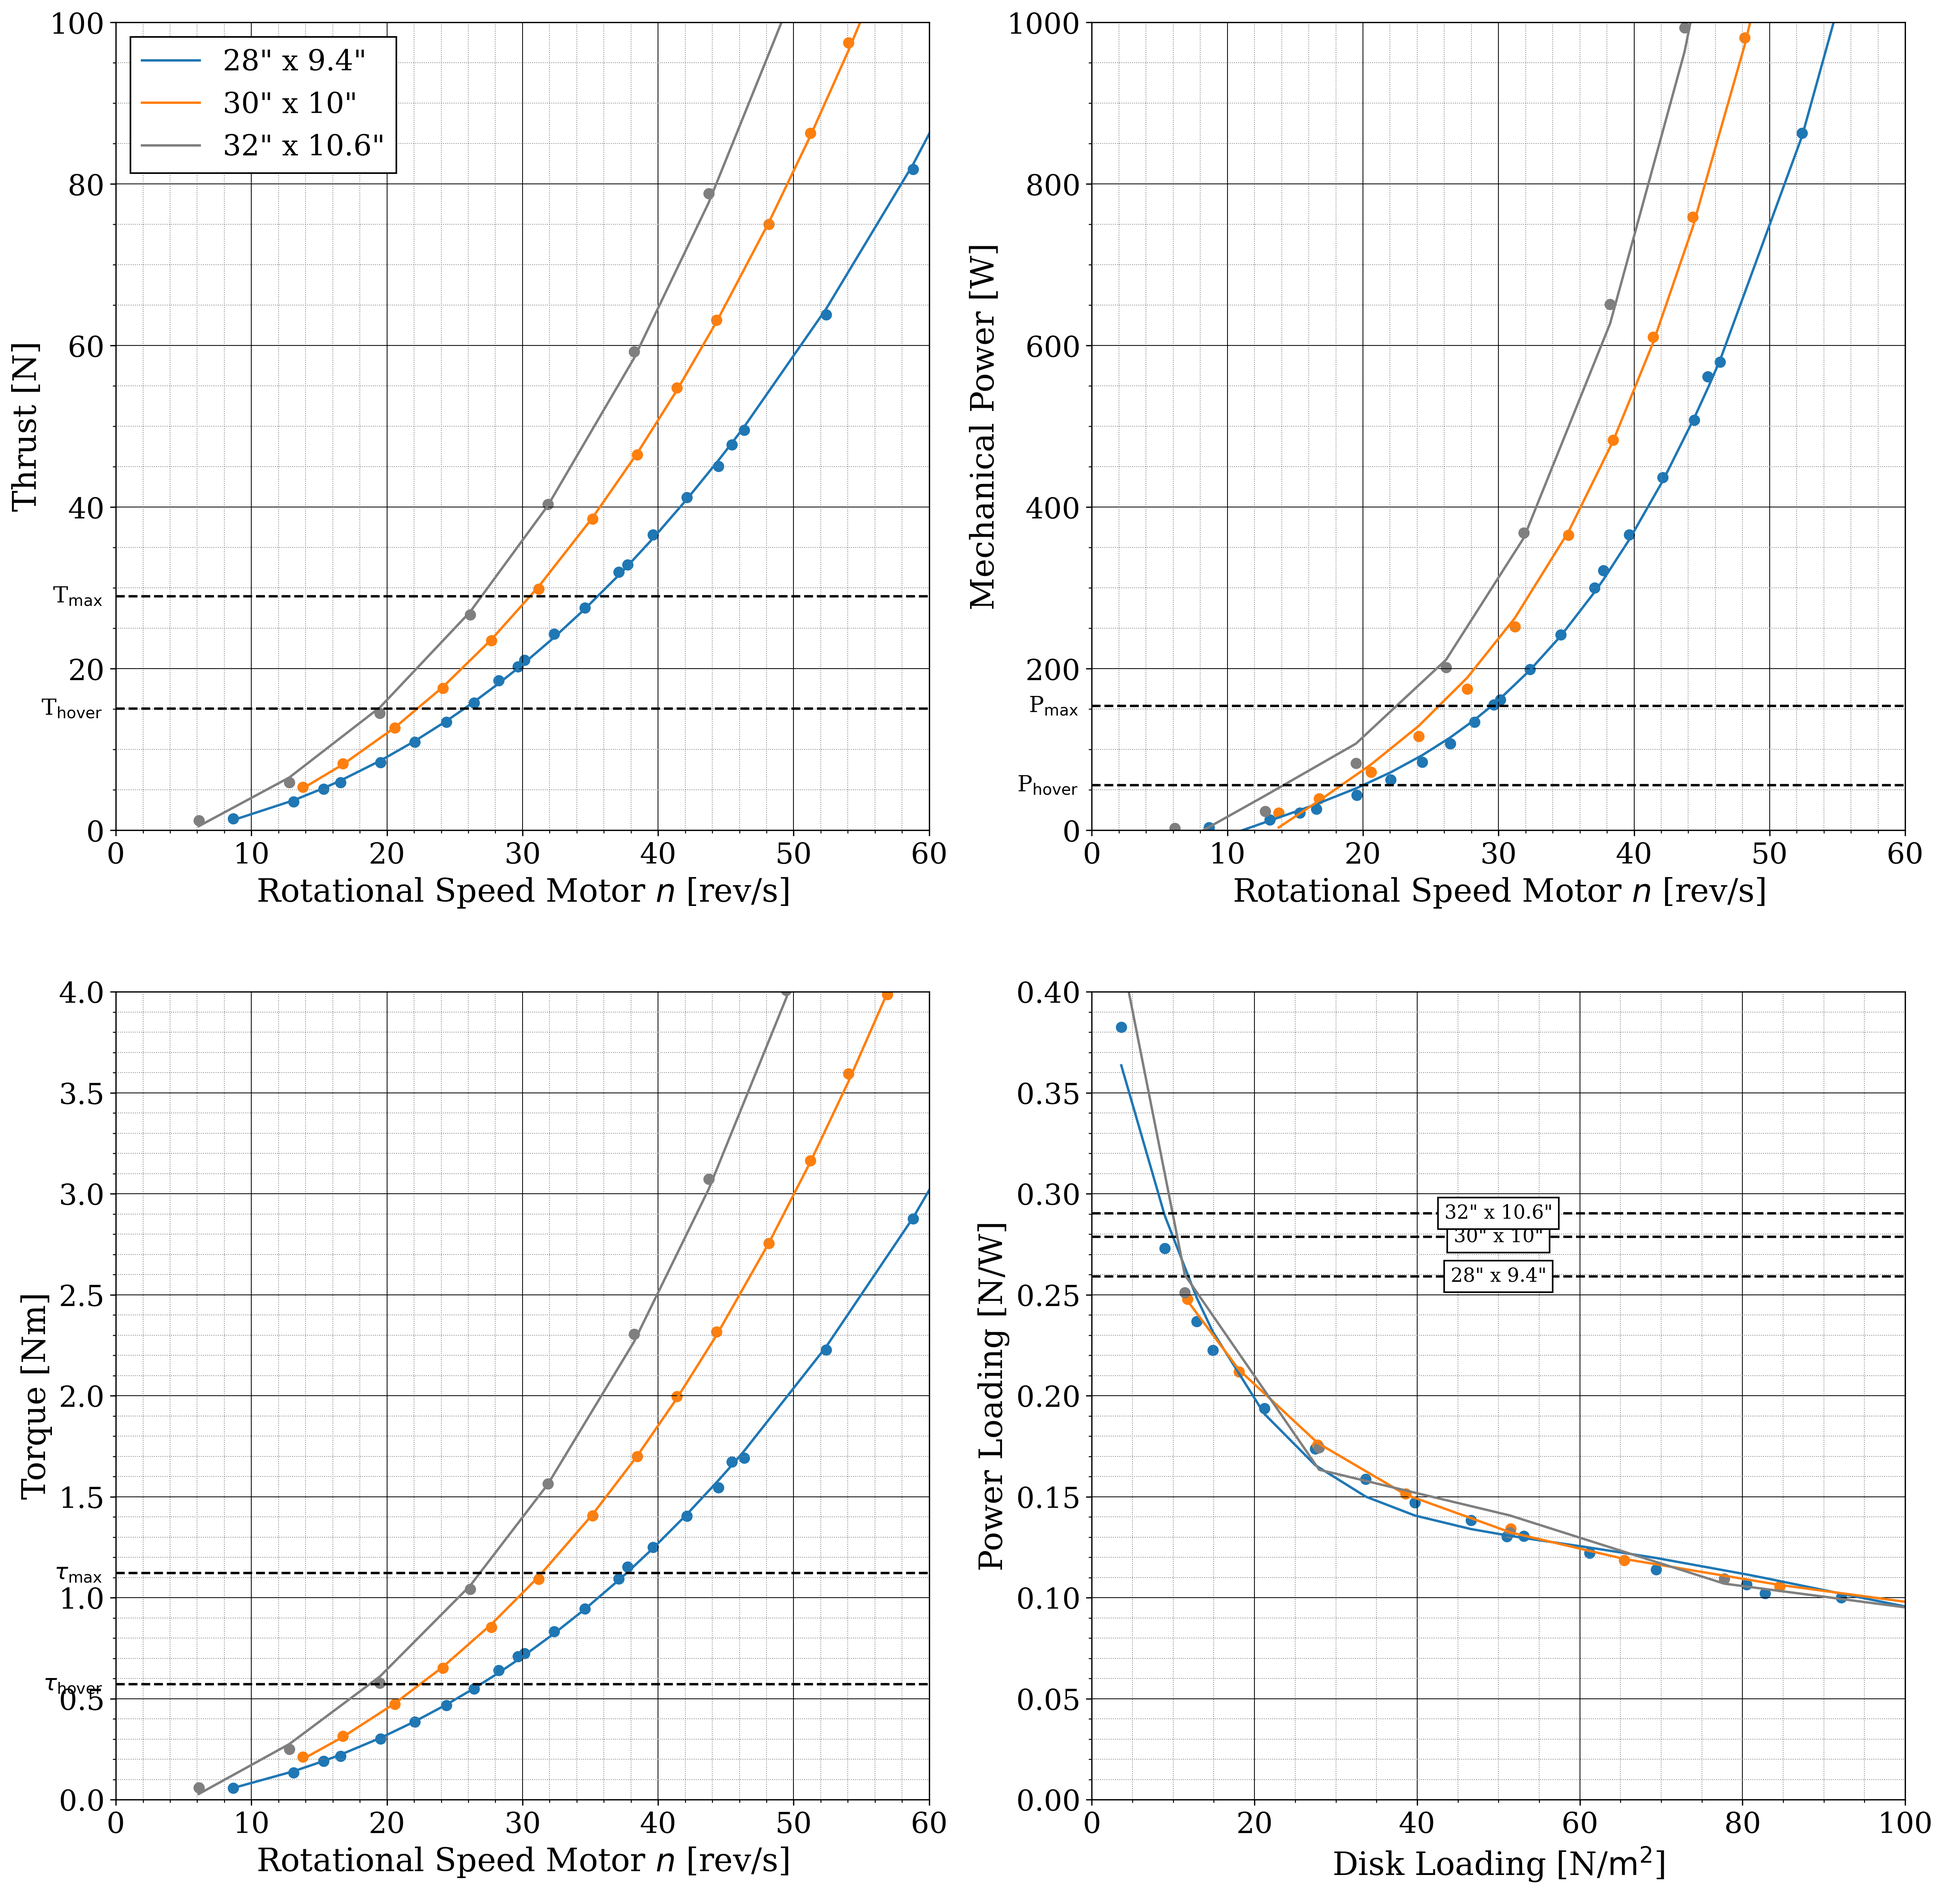
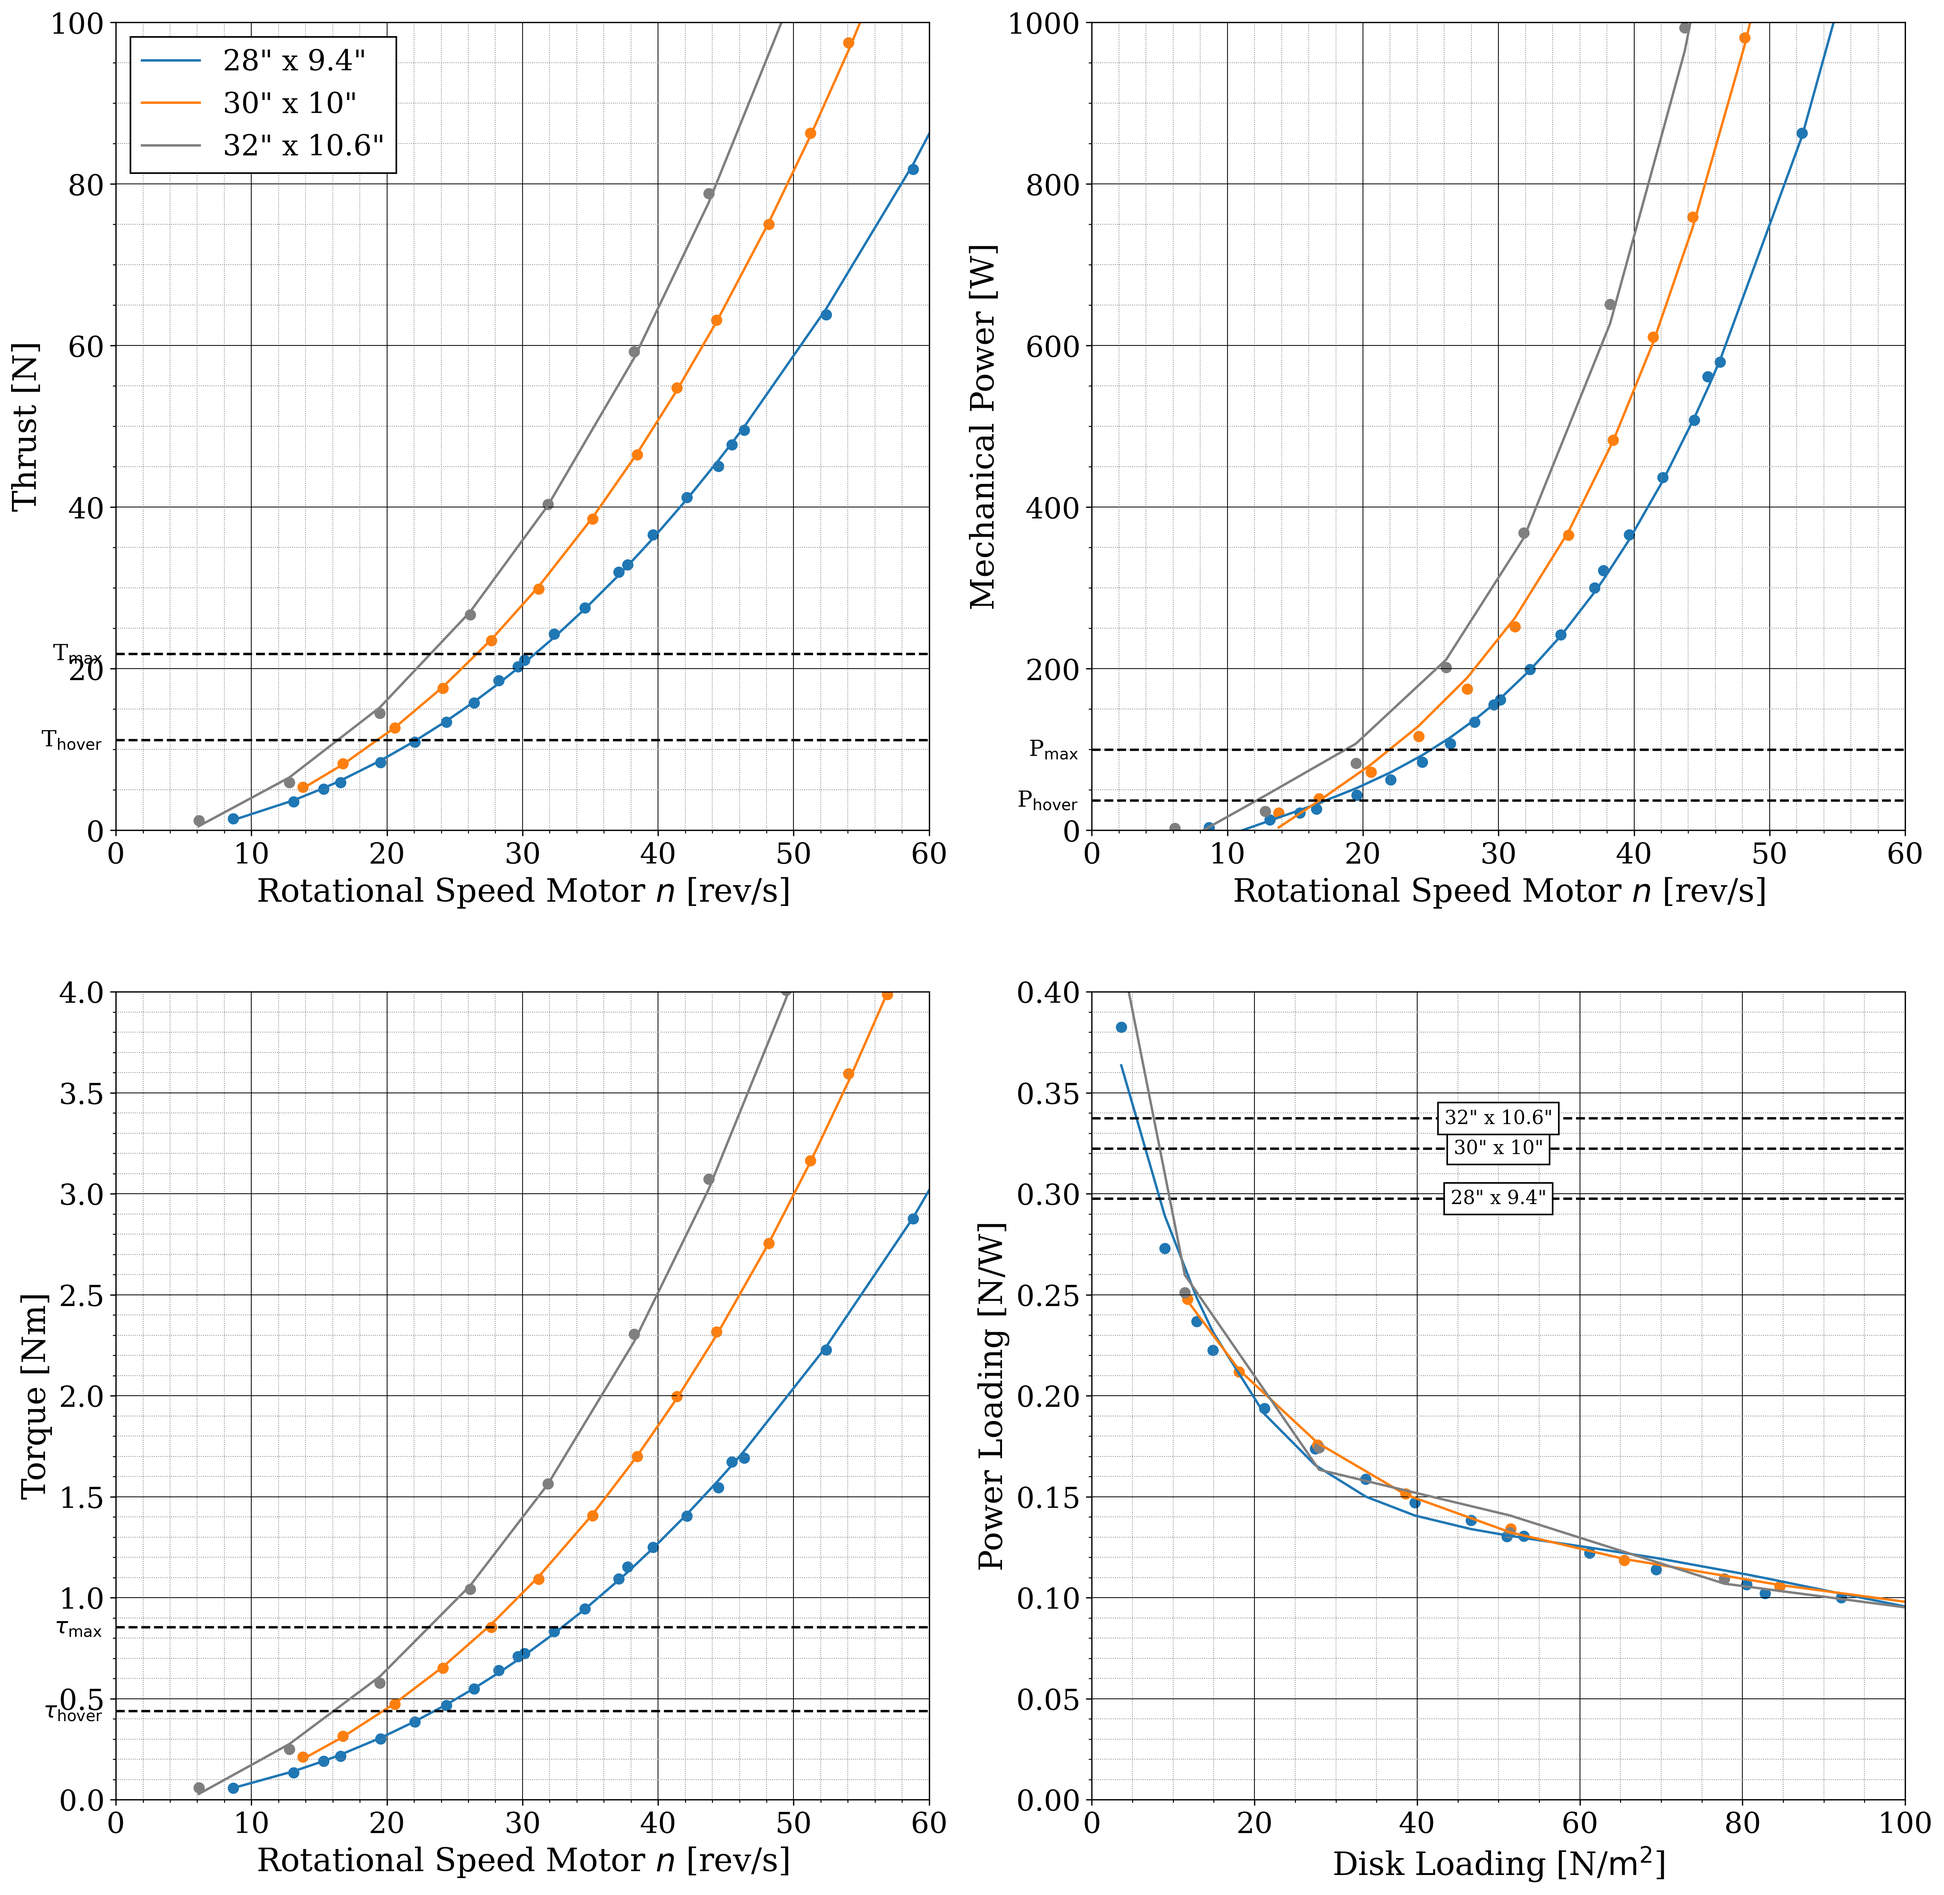
propeller selection

Changed region(s): [[0.7148, 0.5901, 0.808, 0.6833], [0.5283, 0.3727, 0.5594, 0.4348]]

diff --git a/Performance/performance.py b/Performance/performance.py
@@ -44,7 +44,7 @@ matplotlib.rcParams['axes.facecolor']   = 'white'
 matplotlib.rcParams["legend.fancybox"]  = False
 
 # Mass budget
-n_battery 		= 3 # [-] number of batteries in parallel
+n_battery 		= 1 # [-] number of batteries in parallel
 n_propellers	= 8 # [-] number of propellers
 m_sensors 		= 1.248 # [kg] noise and air pollution sensors mass
 m_autonomy 		= 0.219 # [kg] autonomy hardware mass
@@ -53,7 +53,9 @@ m_structures 	= 2.73 # [kg] operational empty mass
 m_motors 		= n_propellers * 0.63 #[kg] brushless motor mass
 m_propellers 	= n_propellers * 91.46E-3 # [kg] propeller mass
 m 				= m_sensors + m_autonomy + m_battery + m_structures + m_motors + m_propellers
-m 				= 1.05 * m # [kg] contingency added
+m 				= 1.25 * m # [kg] contingency added
+
+m = 8.856
 
 # Define constants
 g 				= 9.80665 # [m/s^2] Gravitational Acceleration
@@ -206,7 +208,6 @@ for index, df in enumerate(blades):
 	ax1[1,1].text(50, PL_dp1, bladetype[index], fontsize=12, horizontalalignment='center', verticalalignment='center', bbox=dict(facecolor='white', edgecolor='black'))
 	ax1[1,1].axhline(y=PL_dp1, xmin=0, xmax=1, linestyle='--', color='black')
 
-
 # ==============================================================================================
 # PLOT DESIGN POINTS
 # ==============================================================================================
@@ -302,7 +303,7 @@ img1 = cv2.imread('Maxon_600W.PNG') # read image
 img1 = image_resize(img1, height=1000)
 height, width = img1.shape[:2] # determine size of image
 dx, dy = 188, 100 # determine grid spacing
-nx = width / (188) + 1  # calculate number of grid lines on x-axis
+nx = width / (188) + 1 # calculate number of grid lines on x-axis
 ny = height / (100) # calculate number of grid lines on y-axis
 xlabels = np.linspace(0, 3, int(nx))
 ylabels = np.linspace(0, 5000/60, int(ny))
